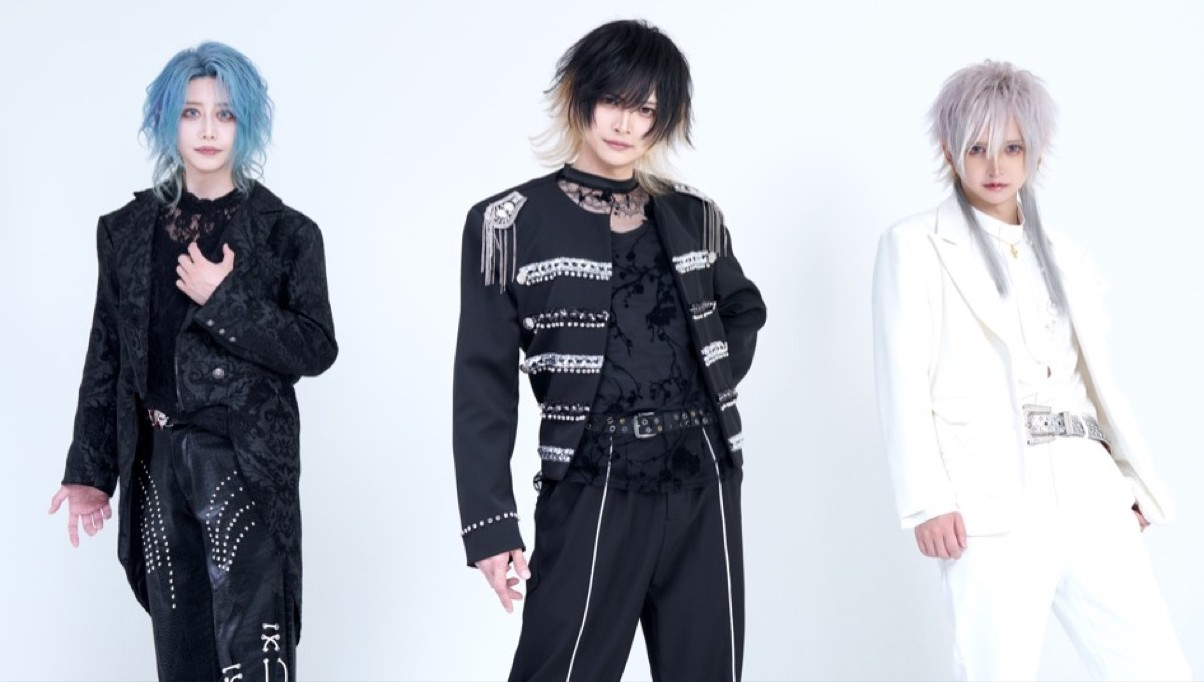
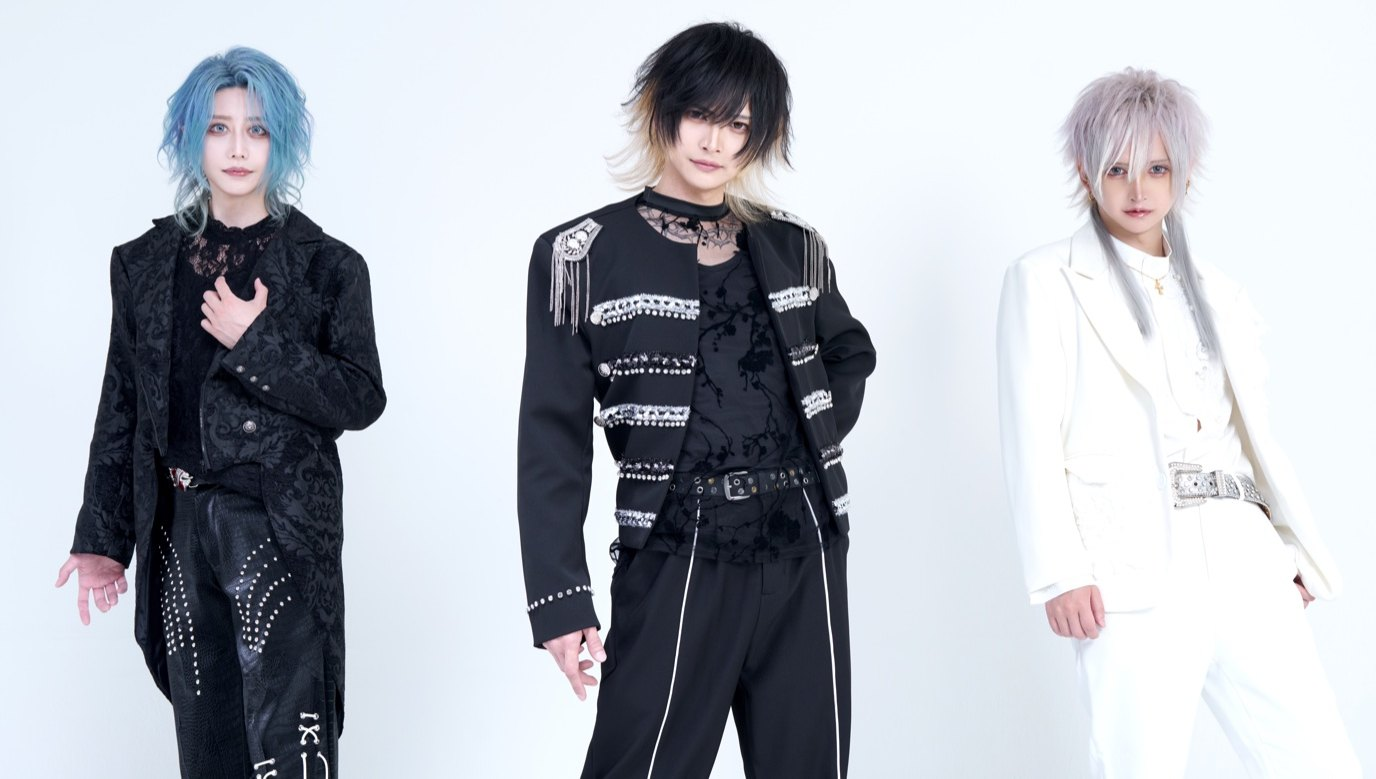
Embed PV (Scynchro) in charity LP + upgrade group photo to hi-res master

Changed region(s): [[0.4302, 0.5235, 0.4917, 0.5543], [0.1844, 0.9853, 0.2458, 1.0]]

diff --git a/charity.html b/charity.html
@@ -271,8 +271,10 @@
   <h2><span class="num">3</span>どんな一夜になるのか？</h2>
   <div class="sub-h">Movie</div>
   <div class="video-wrap">
-    <!-- 動画が決まったら、この中に YouTube/Vimeo の <iframe> か <video> を入れる -->
-    <div class="video-ph"><div class="play">▶</div><span class="tbd">動画は近日公開（ここに埋め込み）</span></div>
+    <!-- PV: Scynchro（Google Drive 埋め込み）※公開には Drive を「リンクを知っている全員」に設定が必要 -->
+    <iframe src="https://drive.google.com/file/d/1q-EnvtoJnOOH_xbK1udtW5You7uwa6Nf/preview"
+            allow="autoplay; fullscreen" allowfullscreen loading="lazy"
+            title="PV Scynchro"></iframe>
   </div>
 </section>
 
